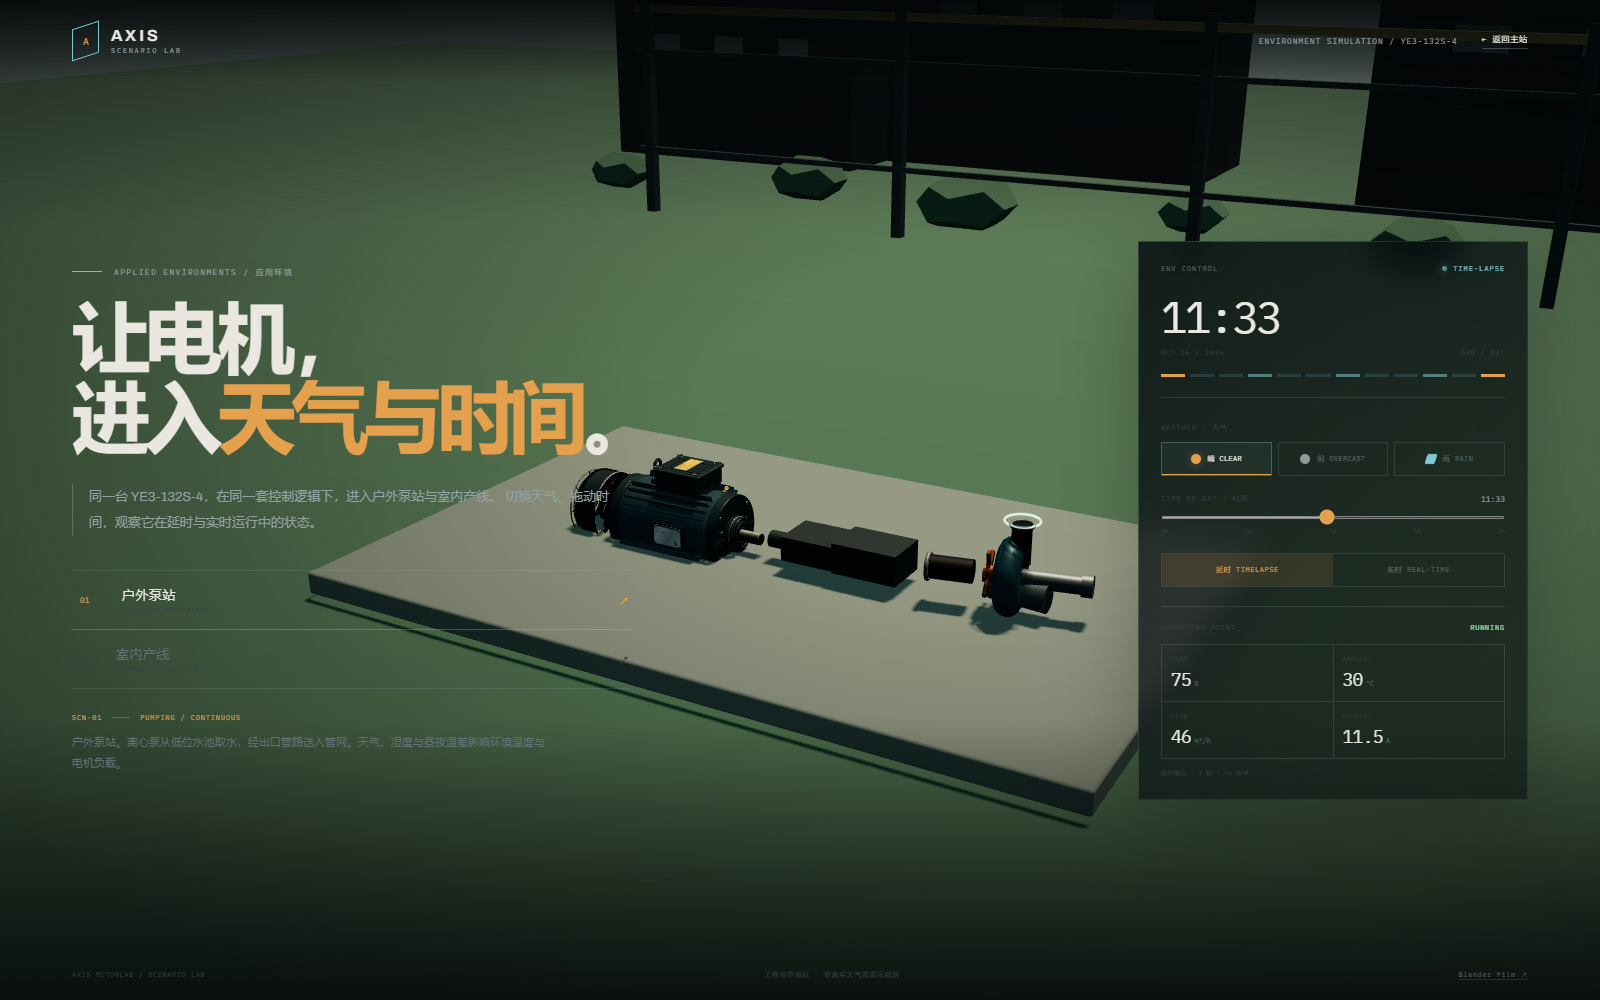
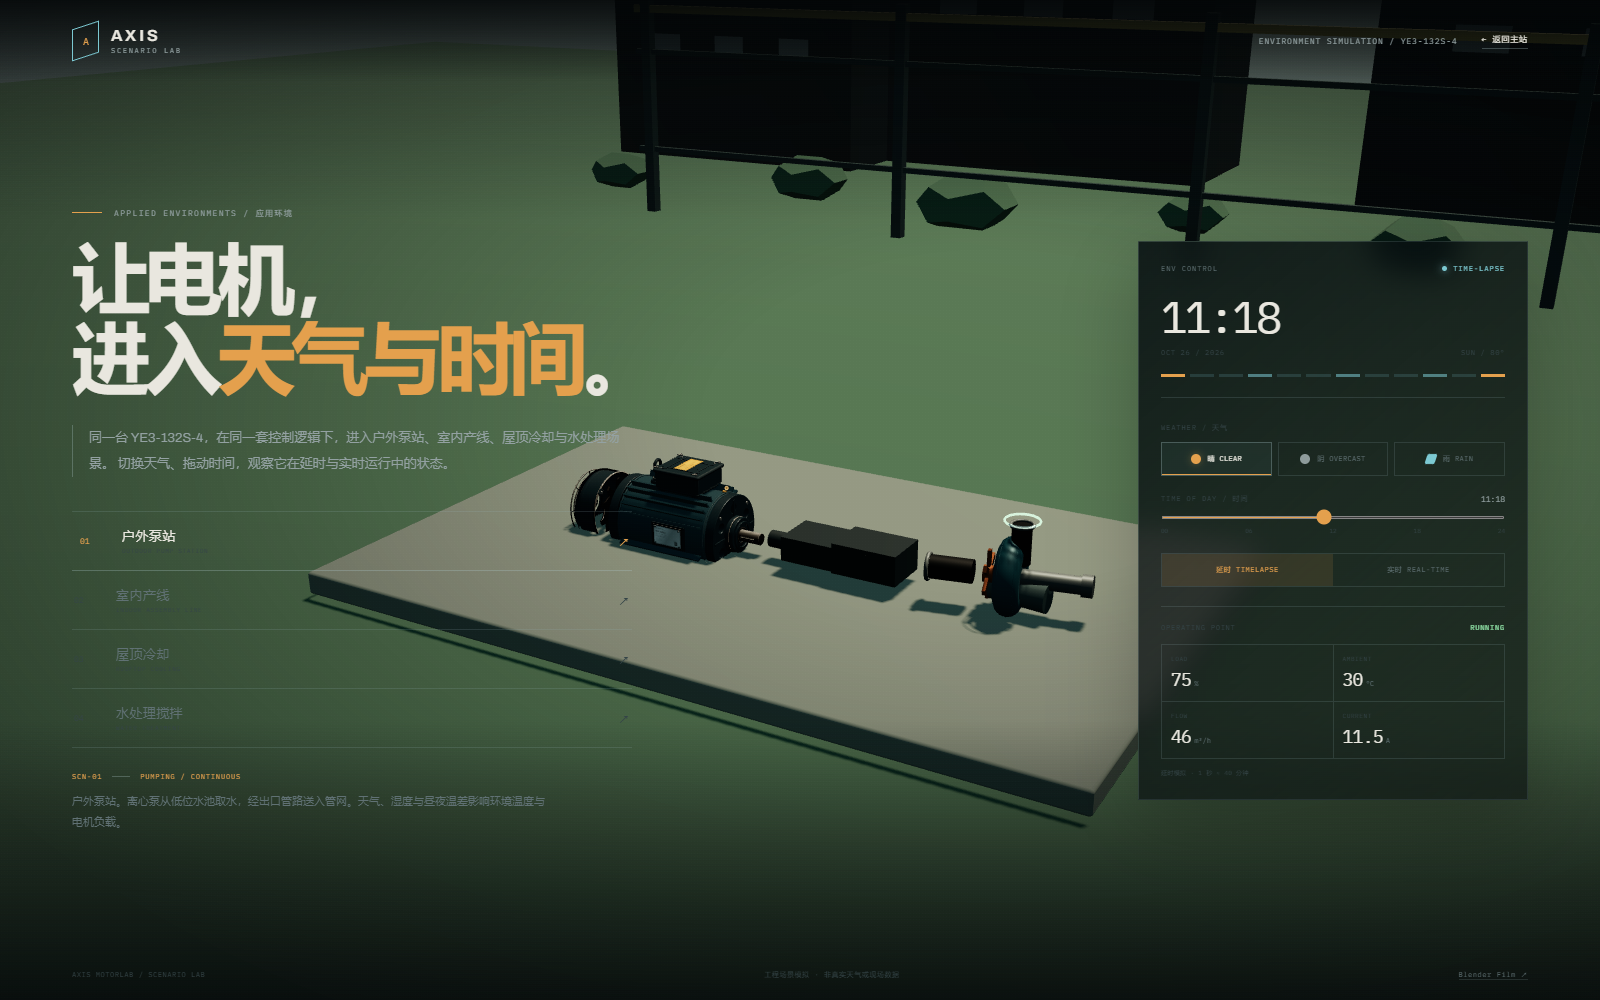
Expand scenario lab with rooftop cooling and water treatment animations

diff --git a/src/scenarios/main.js b/src/scenarios/main.js
@@ -312,6 +312,78 @@ rainWindow.group.position.y = 1.7;
 indoor.add(rainWindow.group);
 
 // ---------------------------------------------------------------------------
+// Rooftop cooling fan
+// ---------------------------------------------------------------------------
+const rooftop = new THREE.Group();
+rooftop.name = 'scenario-rooftop';
+rooftop.visible = false;
+scene.add(rooftop);
+addBox(rooftop, 8.4, 0.18, 6.4, M.concrete, 0, -0.09, -0.2);
+addBox(rooftop, 8.6, 0.58, 0.16, M.concrete, 0, 0.28, -3.38);
+addBox(rooftop, 8.6, 0.58, 0.16, M.concrete, 0, 0.28, 3.0);
+for (const x of [-4.25, 4.25]) addBox(rooftop, 0.16, 0.58, 6.4, M.concrete, x, 0.28, -0.2);
+for (const x of [-3.2, -1.1, 1.1, 3.2]) {
+  add(rooftop, new THREE.CylinderGeometry(0.025, 0.025, 0.75, 10), M.steel, x, 0.37, 2.82, 0, 0, 0, false);
+  add(rooftop, new THREE.CylinderGeometry(0.025, 0.025, 0.75, 10), M.steel, x, 0.37, -3.22, 0, 0, 0, false);
+}
+add(rooftop, new THREE.BoxGeometry(3.2, 0.055, 0.08), M.safety, 0, 0.72, 2.82, 0, 0, 0, false);
+add(rooftop, new THREE.BoxGeometry(3.2, 0.055, 0.08), M.safety, 0, 0.72, -3.22, 0, 0, 0, false);
+// Rooftop plant silhouettes.
+for (const [x, z, w, h, d] of [[-3.0, -4.6, 1.6, 0.7, 1.0], [-1.2, -4.9, 2.0, 1.1, 1.0], [2.9, -4.7, 1.8, 0.6, 1.1], [4.5, -4.8, 1.2, 1.4, 1.0]]) {
+  addBox(rooftop, w, h, d, M.dark, x, h / 2, z, 0, false);
+}
+addBox(rooftop, 2.4, 0.95, 1.3, M.paint, -1.4, 0.48, -2.3);
+addBox(rooftop, 2.5, 0.08, 1.4, M.dark, -1.4, 0.99, -2.3);
+add(rooftop, new THREE.CylinderGeometry(0.19, 0.19, 0.7, 24), M.steel, 2.1, 0.35, -2.1, 0, 0, 0, false);
+add(rooftop, new THREE.TorusGeometry(0.2, 0.025, 8, 28), M.steel, 2.1, 0.7, -2.1, Math.PI / 2, 0, 0, false);
+// Fan and motor skid.
+addBox(rooftop, 1.75, 0.03, 0.5, M.steel, 0.1, 0.015, 0.1);
+conveyor.visible = false;
+fan.visible = true;
+fan.scale.setScalar(1.55);
+fan.position.set(0.75, 0, 0.1);
+rooftop.add(fan);
+const roofGuard = addBox(rooftop, 0.32, 0.1, 0.2, M.dark, 0.26, 0.155, 0.1);
+const rainRooftop = makeRain(600, 9, 7);
+rooftop.add(rainRooftop.group);
+
+// ---------------------------------------------------------------------------
+// Water treatment mixing tank
+// ---------------------------------------------------------------------------
+const water = new THREE.Group();
+water.name = 'scenario-water';
+water.visible = false;
+scene.add(water);
+add(water, new THREE.PlaneGeometry(24, 24), M.grass, 0, -0.02, 0, -Math.PI / 2, 0, 0, false);
+addBox(water, 4.4, 0.07, 2.3, M.concrete, 0, 0.035, 0.2);
+const tankMat = new THREE.MeshStandardMaterial({ color: 0x27434a, metalness: 0.55, roughness: 0.4, side: THREE.DoubleSide });
+const tank = add(water, new THREE.CylinderGeometry(0.62, 0.66, 0.5, 40, 1, true), tankMat, 0.62, 0.25, 0.18, 0, 0, 0, false);
+add(water, new THREE.TorusGeometry(0.63, 0.025, 8, 40), M.steel, 0.62, 0.5, 0.18, Math.PI / 2, 0, 0, false);
+const waterSurface = add(water, new THREE.CircleGeometry(0.6, 40), new THREE.MeshPhysicalMaterial({
+  color: 0x1f5863, metalness: 0.35, roughness: 0.12, transparent: true, opacity: 0.7, side: THREE.DoubleSide,
+}), 0.62, 0.43, 0.18, -Math.PI / 2, 0, 0, false);
+const mixerImpeller = new THREE.Group();
+mixerImpeller.position.set(0.62, 0.3, 0.18);
+water.add(mixerImpeller);
+add(mixerImpeller, new THREE.CylinderGeometry(0.035, 0.035, 0.08, 16), M.steel, 0, 0.1, 0, 0, 0, Math.PI / 2);
+for (let i = 0; i < 4; i++) {
+  const a = (i / 4) * TAU;
+  add(mixerImpeller, new THREE.BoxGeometry(0.02, 0.36, 0.045), M.steel, 0, Math.cos(a) * 0.14, Math.sin(a) * 0.14, a, 0, 0);
+}
+add(water, new THREE.CylinderGeometry(0.045, 0.045, 0.55, 20), M.steel, 0.28, 0.3, 0.18, 0, 0, Math.PI / 2, false);
+add(water, new THREE.CylinderGeometry(0.16, 0.16, 0.045, 20), M.steel, 0.62, 0.62, 0.18, 0, 0, 0, false);
+addBox(water, 1.8, 0.035, 0.55, M.steel, -0.1, 0.017, 0.18);
+addCyl(water, 0.028, 0.028, 0.62, M.dark, -0.25, 0.145, 0.18, 0, 0, Math.PI / 2);
+addBox(water, 0.3, 0.1, 0.2, M.dark, -0.22, 0.15, 0.18);
+add(water, new THREE.CylinderGeometry(0.075, 0.075, 0.8, 20), M.steel, 1.35, 0.4, 0.18, 0, 0, 0, false);
+add(water, new THREE.CylinderGeometry(0.075, 0.075, 1.1, 20), M.steel, 1.35, 0.4, -0.5, 0, 0, Math.PI / 2, false);
+for (const [x, z] of [[-1.45, 1.0], [1.55, 1.0], [-1.45, -0.75], [1.55, -0.75]]) {
+  add(water, new THREE.BoxGeometry(0.05, 0.8, 0.05), M.safety, x, 0.4, z, 0, 0, 0, false);
+}
+const rainWater = makeRain(700, 10, 7);
+water.add(rainWater.group);
+
+// ---------------------------------------------------------------------------
 // Motor placement per scenario
 // ---------------------------------------------------------------------------
 function placeMotor(group, x, z) {
@@ -338,6 +410,20 @@ const SCENARIOS = {
     description: '室内装配线。电机通过皮带驱动输送机，完成箱体转运。窗外天气与昼夜变化，室内照明维持稳定班次。',
     camera: { pos: [2.35, 1.85, 3.35], target: [0.1, 0.3, 0.1], fov: 36 },
     metricA: ['THROUGHPUT', 'pcs/h'],
+  },
+  rooftop: {
+    code: 'SCN-03',
+    status: 'COOLING / CONTINUOUS',
+    description: '屋顶冷却。电机驱动轴流风机，为屋顶空调机组排热。高处的风、日晒和降雨直接改变风机负载与环境温度。',
+    camera: { pos: [2.65, 2.25, 4.3], target: [0.12, 0.32, 0.02], fov: 37 },
+    metricA: ['AIRFLOW', 'm³/h'],
+  },
+  water: {
+    code: 'SCN-04',
+    status: 'MIXING / TREATMENT',
+    description: '水处理搅拌。电机经联轴器驱动侧入式搅拌器，使药剂与水体均匀混合。搅拌轴、叶轮与水面持续运动。',
+    camera: { pos: [2.8, 2.15, 4.2], target: [0.16, 0.32, 0.1], fov: 37 },
+    metricA: ['MIXER', 'rpm'],
   },
 };
 
@@ -380,14 +466,22 @@ function setScenario(next) {
   });
   outdoor.visible = next === 'outdoor';
   indoor.visible = next === 'indoor';
+  rooftop.visible = next === 'rooftop';
+  water.visible = next === 'water';
   pump.visible = next === 'outdoor';
   conveyor.visible = next === 'indoor';
+  fan.visible = next === 'rooftop';
   if (next === 'outdoor') {
     placeMotor(outdoor, -0.22, 0.18);
     pump.position.set(0.95, 0, 0.18);
-  } else {
+  } else if (next === 'indoor') {
     placeMotor(indoor, -0.62, 0.28);
     conveyor.position.set(0.65, 0, 0.28);
+  } else if (next === 'rooftop') {
+    placeMotor(rooftop, -0.32, 0.1);
+    fan.position.set(0.62, 0, 0.1);
+  } else {
+    placeMotor(water, -0.58, 0.18);
   }
   const cfg = SCENARIOS[next];
   ui.code.textContent = cfg.code;
@@ -399,7 +493,13 @@ function setScenario(next) {
   camera.position.set(...cfg.camera.pos);
   camera.fov = cfg.camera.fov;
   camera.updateProjectionMatrix();
-  showToast(next === 'outdoor' ? '户外泵站 · 天气与昼夜已接入' : '室内产线 · 窗外天气与室内班次已接入');
+  const toastCopy = {
+    outdoor: '户外泵站 · 天气与昼夜已接入',
+    indoor: '室内产线 · 窗外天气与室内班次已接入',
+    rooftop: '屋顶冷却 · 风机负载跟随天气',
+    water: '水处理搅拌 · 叶轮与水面持续运行',
+  };
+  showToast(toastCopy[next]);
   updateTelemetry(0);
 }
 
@@ -523,8 +623,10 @@ function updateSkyAndLights(dt) {
     p.visible = rain > 0.02 || weatherMix.overcast > 0.5;
     p.material.opacity = 0.14 + rain * 0.62;
   });
-  rainOutdoor.update(dt, rain > 0.025);
-  rainWindow.update(dt, rain > 0.025);
+  rainOutdoor.update(dt, rain > 0.025 && scenario === 'outdoor');
+  rainRooftop.update(dt, rain > 0.025 && scenario === 'rooftop');
+  rainWater.update(dt, rain > 0.025 && scenario === 'water');
+  rainWindow.update(dt, rain > 0.025 && scenario === 'indoor');
   M.glass.opacity = 0.12 + overcast * 0.12;
   M.water.opacity = 0.2 + rain * 0.5;
 }
@@ -550,8 +652,19 @@ function updateTelemetry(dt) {
   const rain = weatherMix.rain;
   const day = clamp(Math.sin(((simMinutes / 60 - 6) / 12) * Math.PI) * 3);
   const isOutdoor = scenario === 'outdoor';
-  const ambient = isOutdoor ? 19 + day * 11 - overcast * 1.5 - rain * 2 : 25 + day * 3 - overcast * 0.8;
-  const load = isOutdoor ? 71 + Math.sin(performance.now() * 0.0003) * 4 + (1 - day) * 2 : 64 + Math.sin(performance.now() * 0.0004) * 3;
+  const isIndoor = scenario === 'indoor';
+  const isRooftop = scenario === 'rooftop';
+  const isWater = scenario === 'water';
+  let ambient = isIndoor ? 25 + day * 3 - overcast * 0.8 : 19 + day * 11 - overcast * 1.5 - rain * 2;
+  if (isRooftop) ambient = 16 + day * 14 - overcast * 1.8 - rain * 2.5;
+  if (isWater) ambient = 18 + day * 9 - overcast * 1.4 - rain * 1.8;
+  const load = isIndoor
+    ? 64 + Math.sin(performance.now() * 0.0004) * 3
+    : isRooftop
+      ? 58 + Math.sin(performance.now() * 0.00036) * 4 + (1 - day) * 1.5
+      : isWater
+        ? 72 + Math.sin(performance.now() * 0.00032) * 4
+        : 71 + Math.sin(performance.now() * 0.0003) * 4 + (1 - day) * 2;
   const current = 8.8 + load * 0.036;
   if (dt > 0) {
     ui.load.textContent = String(Math.round(load));
@@ -559,8 +672,12 @@ function updateTelemetry(dt) {
     ui.current.textContent = current.toFixed(1);
     if (isOutdoor) {
       ui.a.textContent = String(Math.round(40 + (100 - load) * 0.22 + Math.sin(performance.now() * 0.0005) * 1.2));
-    } else {
+    } else if (isIndoor) {
       ui.a.textContent = String(Math.round(1150 + (100 - load) * 8 + Math.sin(performance.now() * 0.0007) * 22));
+    } else if (isRooftop) {
+      ui.a.textContent = String(Math.round(16000 + (100 - load) * 110 + Math.sin(performance.now() * 0.0006) * 120));
+    } else {
+      ui.a.textContent = String(Math.round(128 + (100 - load) * 0.7 + Math.sin(performance.now() * 0.0008) * 2));
     }
   }
 }
@@ -624,8 +741,11 @@ function animate(now) {
   weatherMix.rain += (targetWeather.rain - weatherMix.rain) * Math.min(1, dt * 1.8);
   updateSkyAndLights(dt);
 
-  spinAngle = (spinAngle + dt * (scenario === 'outdoor' ? 5.2 : 4.2)) % TAU;
+  spinAngle = (spinAngle + dt * (scenario === 'outdoor' ? 5.2 : scenario === 'water' ? 3.0 : 4.2)) % TAU;
   motor.setSpin(spinAngle);
+  mixerImpeller.rotation.x += dt * 3.2;
+  waterSurface.rotation.z += dt * 0.35;
+  waterSurface.scale.setScalar(1 + Math.sin(now * 0.002) * 0.008);
   apps.update(dt, now / 1000);
   updateTelemetry(dt);
   controls.update();

diff --git a/scenarios/index.html b/scenarios/index.html
@@ -35,7 +35,7 @@
       <div class="eyebrow"><span></span> APPLIED ENVIRONMENTS / 应用环境</div>
       <h1>让电机，<br>进入<em>天气与时间</em>。</h1>
       <p class="lede">
-        同一台 YE3-132S-4，在同一套控制逻辑下，进入户外泵站与室内产线。
+        同一台 YE3-132S-4，在同一套控制逻辑下，进入户外泵站、室内产线、屋顶冷却与水处理场景。
         切换天气、拖动时间，观察它在延时与实时运行中的状态。
       </p>
 
@@ -48,6 +48,16 @@
         <button class="scenario-tab" data-scenario="indoor" role="tab" aria-selected="false">
           <span class="tab-index">02</span>
           <span class="tab-name">室内产线<em>INDOOR ASSEMBLY LINE</em></span>
+          <span class="tab-mark">↗</span>
+        </button>
+        <button class="scenario-tab" data-scenario="rooftop" role="tab" aria-selected="false">
+          <span class="tab-index">03</span>
+          <span class="tab-name">屋顶冷却<em>ROOFTOP COOLING</em></span>
+          <span class="tab-mark">↗</span>
+        </button>
+        <button class="scenario-tab" data-scenario="water" role="tab" aria-selected="false">
+          <span class="tab-index">04</span>
+          <span class="tab-name">水处理搅拌<em>WATER TREATMENT</em></span>
           <span class="tab-mark">↗</span>
         </button>
       </div>

diff --git a/README.md b/README.md
@@ -34,10 +34,12 @@ npm run preview   # http://127.0.0.1:5181/
 
 ## 场景实验室
 
-`/scenarios/` 是独立的实时 3D 环境模拟页，用 Three.js 渲染两组应用场景：
+`/scenarios/` 是独立的实时 3D 环境模拟页，用 Three.js 渲染四组应用场景：
 
 - **户外泵站**：泵组、围栏、厂房、雨、水洼、户外灯光；
-- **室内产线**：室内厂房、窗户外景、输送线、控制柜、班次照明。
+- **室内产线**：室内厂房、窗户外景、输送线、控制柜、班次照明；
+- **屋顶冷却**：屋顶机组、轴流风机、栏杆与城市背景，风机随天气变化；
+- **水处理搅拌**：搅拌罐、侧入式搅拌器、水面与加药管路，叶轮持续旋转。
 
 支持 **晴 / 阴 / 雨**、24 小时时间轴、**延时 / 实时**模式，以及负载、环境温度、流量/产能、电流等运行数据。
 
